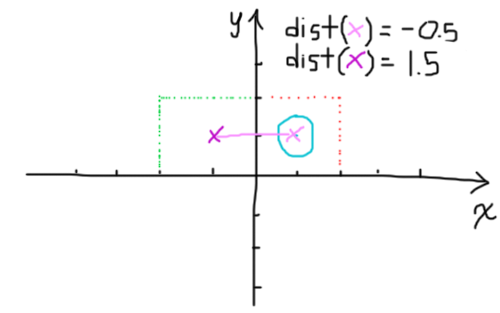
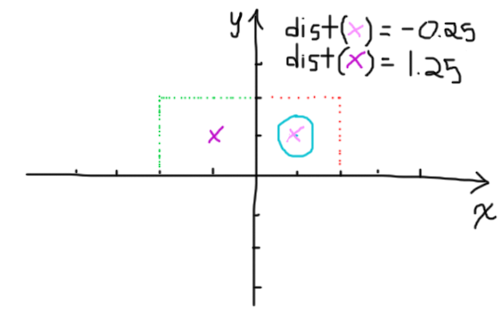
I'm really really stupid .-. can't graph fake numbers for the life of me damnit

Changed region(s): [[0.84, 0.1438, 0.93, 0.2875], [0.87, 0.0575, 0.96, 0.1438], [0.42, 0.4026, 0.57, 0.4601]]

diff --git a/blog/2016-08-17/main.html b/blog/2016-08-17/main.html
@@ -19,7 +19,7 @@
 
   <img src="domain-repetition01.png" class="outlinedImage"/>
 
-  <p>Above we have a circle centred around (1,1). Let's say we want that circle to repeat infinitely many times along the x axis, where we repeat the contents of the red dotted box. With the repetition, we wish for our distance function to tell us that the point (-1,1) lies within the circle. However the distance function will evaluate to something close to 1.5.</p>
+  <p>Above we have a circle centred around (1,1). Let's say we want that circle to repeat infinitely many times along the x axis, where we repeat the contents of the red dotted box. With the repetition, we wish for our distance function to tell us that the point (-1,1) lies within the circle. However the distance function will evaluate to something close to 1.25.</p>
 
   <img src="domain-repetition02.png" class="outlinedImage"/>
 
